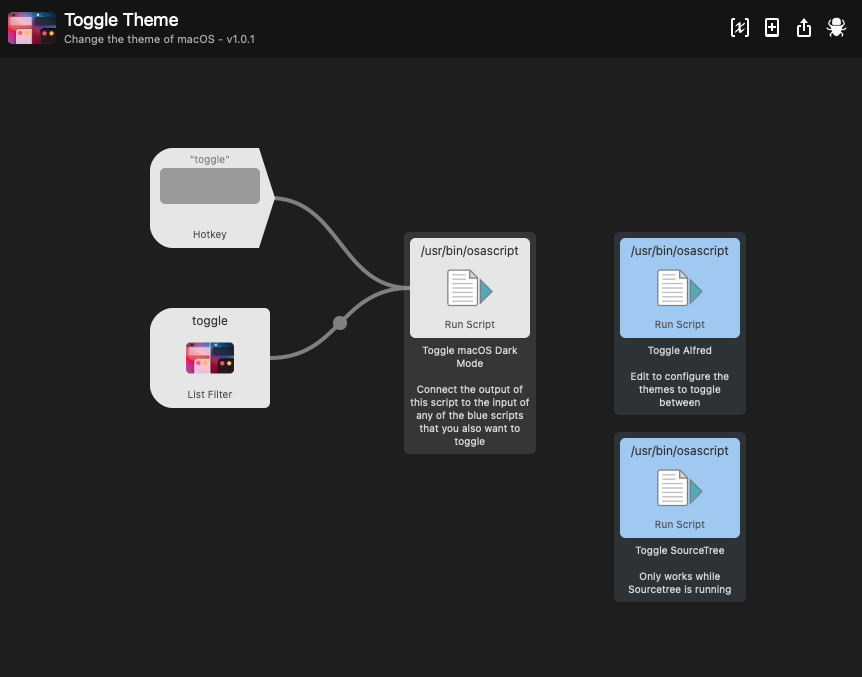
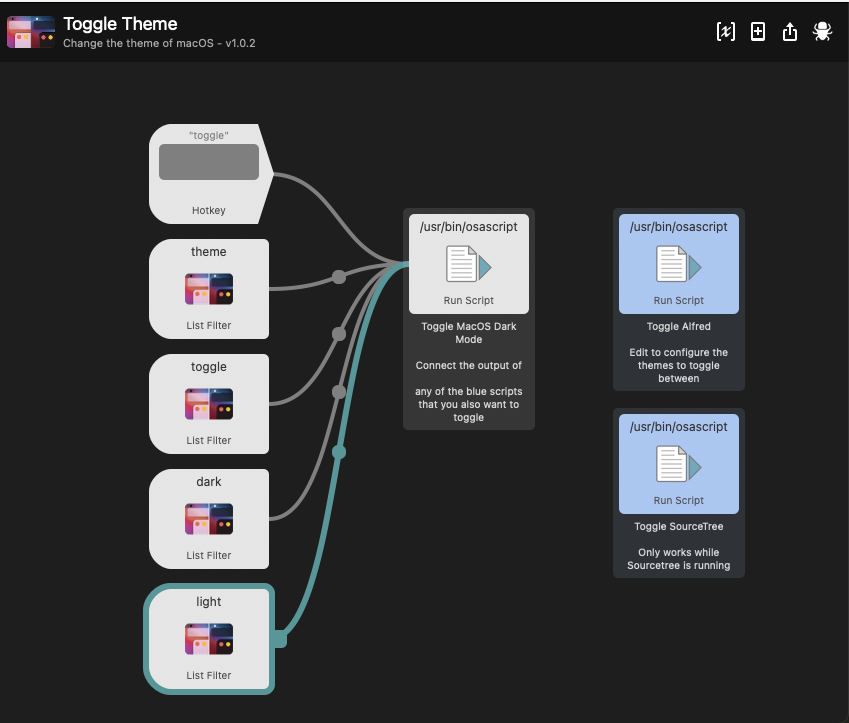
You can search toggle/theme
updated the image and fixing the markdown

diff --git a/README.md b/README.md
@@ -9,7 +9,7 @@ It also has the option to toggle the theme on the following applications:
  - Alfred
  - Sourcetree
 
-[![Preview of the toggle workflow](assets/workflow.png)
+![Preview of the toggle workflow](assets/workflow.png)
 [![Preview of the toggle workflow editor](assets/editor.png)
 Download Workflow](https://github.com/mermaid/mojave-darkmode-toggle/raw/master/Toggle%20Theme.alfredworkflow)
 
